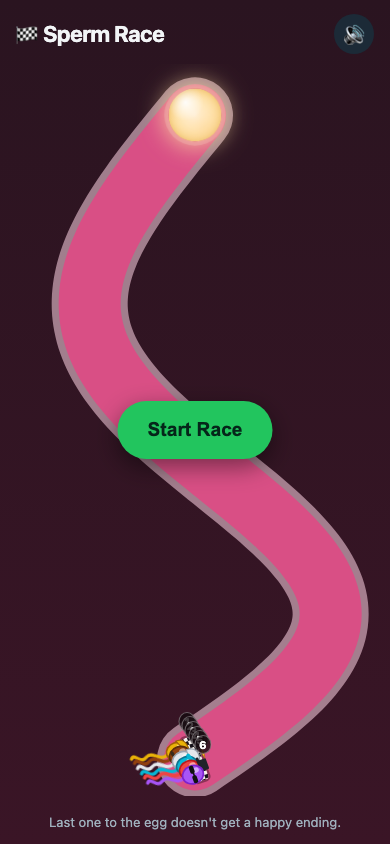
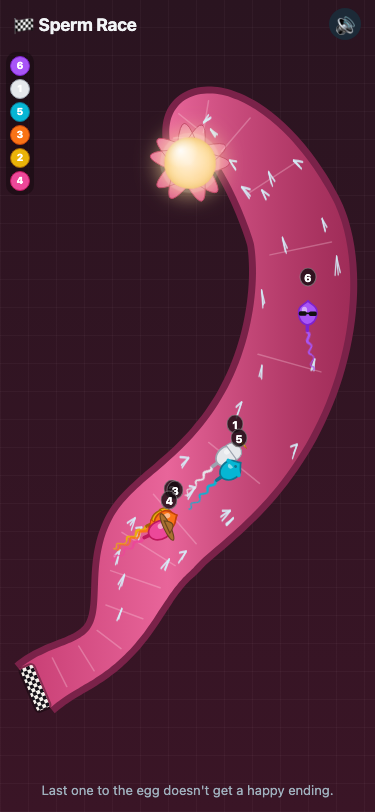
Update README and screenshot for everything shipped this session
The README still described the very first version of the game (a plain
curved track, 3 accessories, Netlify as the only host) - rewritten to
cover the fallopian-tube track redesign, all 10 accessories, the cilia
hazard mechanic, the live standings legend, sound effects (recorded +
synthesized), and the three-host deployment setup (GitHub Pages
auto-deploys, Netlify/Vercel are manual). Screenshot replaced with a
current in-race capture instead of the original static lineup shot.

diff --git a/README.md b/README.md
@@ -2,25 +2,30 @@
 
 A pick-who-pays-the-bill decision maker, disguised as a chaotic little racing game. Pick a racer, hit start, and whoever crosses the finish line last pays.
 
-**Live:** [sperminator.netlify.app](https://sperminator.netlify.app)
+**Play now:**
+[byronsha.github.io/cc-roulette](https://byronsha.github.io/cc-roulette/) ·
+[sperminator.vercel.app](https://sperminator.vercel.app) ·
+[sperminator.netlify.app](https://sperminator.netlify.app)
 
 ![Sperm Race screenshot](docs/screenshot.png)
 
 ## How it works
 
 - Pick how many racers (2–10) on the setup screen.
-- Each racer gets a random color and accessory (bandana, headband, or propeller cap).
-- Hit **Start Race** for a "3, 2, 1, GO!" countdown, then watch everyone swim down a winding track toward the egg.
+- Each racer gets its own color and one of 10 accessories (top hat, baseball cap, crown, bandana, sunglasses, bowtie, cowboy hat, headband, mustache, propeller cap).
+- Hit **Start Race** for a "3, 2, 1, GO!" countdown, then watch everyone swim down a winding track - styled like a science-class diagram of a fallopian tube - toward the egg.
 - Racer speeds fluctuate randomly with a rubber-band effect (falling behind gives a small speed boost) so the outcome stays uncertain until near the end.
-- The race ends the instant every racer but one has finished — that last racer is the loser.
+- Cilia dot the middle stretch of the tube - passing through a patch is a chance of getting slowed for a moment (with a little sfx and a visual pulse), never a guarantee. Every hazard has a visible patch of cilia where it actually is; none are invisible.
+- A live standings legend in the top-left corner re-ranks racers by current progress as the race unfolds.
+- The race ends the instant every racer but one has finished - that last racer is the loser, with a short "ta-da" fanfare going to whoever finished first.
 
 ## Stack
 
 - [Vite](https://vitejs.dev/) + vanilla TypeScript, no framework.
 - Race simulation and track geometry are pure, DOM-free modules ([`src/raceEngine.ts`](src/raceEngine.ts), [`src/trackGeometry.ts`](src/trackGeometry.ts)) so the core logic is unit-testable without a browser.
+- Music/voice cues are pre-recorded clips; the cilia-hit and finish-fanfare sound effects are synthesized at runtime via the Web Audio API (no audio files for those two).
 - [Vitest](https://vitest.dev/) for unit tests (race fairness, engine invariants, DOM wiring).
 - [Playwright](https://playwright.dev/) for real-browser visual regression tests (mobile viewport layout, screenshot baselines) across Chromium and WebKit.
-- Deployed to [Netlify](https://www.netlify.com/).
 
 ## Running locally
 
@@ -42,9 +47,14 @@ Opens at `http://localhost:5173`.
 | `npm run test:visual` | Run visual/layout regression tests (Playwright) |
 | `npm run test:visual:update` | Regenerate Playwright screenshot baselines |
 
-## Deploying
+## Deployments
 
-```bash
-npm run build
-npx netlify-cli deploy --prod --dir=dist
-```
+The same build ships to three hosts, each serving from its own domain root - `vite.config.ts` picks the right asset path prefix and `og:url`/`og:image` per host at build time (GitHub Pages needs a `/cc-roulette/` prefix; the others serve from `/`).
+
+- **GitHub Pages** - dev/staging. Auto-deploys on every push to `main` via [`.github/workflows/deploy.yml`](.github/workflows/deploy.yml); nothing to run by hand.
+- **Netlify** and **Vercel** - production mirrors, deployed manually and sparingly (not on every push):
+  ```bash
+  npm run build
+  npx netlify-cli deploy --prod --dir=dist   # Netlify
+  npx vercel --prod                          # Vercel
+  ```
